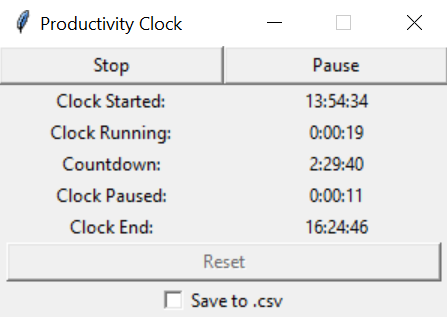
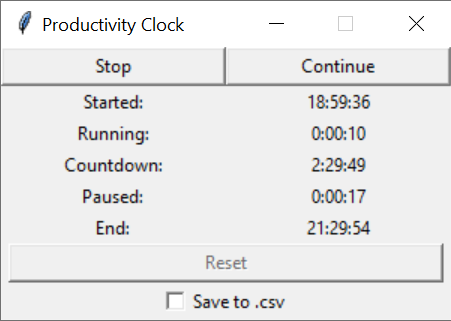
update README.md

diff --git a/core.py b/core.py
@@ -101,13 +101,13 @@ class Core(tk.Frame):
         # row 1
         row += 1
         self.label_timer_started.grid(row=row, column=0)
-        self.label_timer_started.configure(text='Clock Started:')
+        self.label_timer_started.configure(text='Started:')
         self.label_timer_started_nr.grid(row=row, column=1)
         self.label_timer_started_nr.configure(text='00:00:00')
         # row 2
         row += 1
         self.label_timer.grid(row=row, column=0)
-        self.label_timer.configure(text='Clock Running:')
+        self.label_timer.configure(text='Running:')
         self.label_timer_nr.grid(row=row, column=1)
         self.label_timer_nr.configure(text='0:00:00')
         # row 3
@@ -119,13 +119,13 @@ class Core(tk.Frame):
         # row 4
         row += 1
         self.label_pause.grid(row=row, column=0)
-        self.label_pause.configure(text='Clock Paused:')
+        self.label_pause.configure(text='Paused:')
         self.label_pause_nr.grid(row=row, column=1)
         self.label_pause_nr.configure(text='0:00:00')
         # row 5
         row += 1
         self.label_timer_end.grid(row=row, column=0)
-        self.label_timer_end.configure(text='Clock End:')
+        self.label_timer_end.configure(text='End:')
         self.label_timer_end_nr.grid(row=row, column=1)
         self.label_timer_end_nr.configure(text='00:00:00')
         # row 6

diff --git a/README.md b/README.md
@@ -1,7 +1,7 @@
 # Productivity Clock
 
 <p align="center">
-    <img src=productivity_clock_start.png>
+    <img src=productivity_clock_start.png?>
 </p>
 
 Productivity Clock uses `tkinter`.
@@ -18,18 +18,18 @@ python main.py --hours 2 --minutes 30 --outfile clock
 ```
 ## Features
 
-Once `Start` is clicked, the start time is displayed in the line `Clock Started`
+Once `Start` is clicked, the start time is displayed in the line `Started`
 and the countdown starts.
 
 <p align="center">
-    <img src=productivity_clock_running.png>
+    <img src=productivity_clock_running.png?>
 </p>
 
 To pause the countdown, click `Pause` (the button then displays `Continue`).
-The line `Clock Paused` shows how long the clock has been paused.
+The line `Paused` shows how long the clock has been paused.
 Clicking `Continue` resumes the countdown.
-The line `Clock Running` shows how long the clock has been running since the start time minus the pause time.
-`Clock End` predicts when the countdown reaches zero.
+The line `Running` shows how long the clock has been running since the start time minus the pause time.
+`End` predicts when the countdown reaches zero.
 The pause time is taken into account.
 
 If the box `Save to .csv` is checked, clicking `Start`, `Stop`, `Pause`, or `Continue` leads to a new entry in a CSV file which by default is called `clock.csv`.
